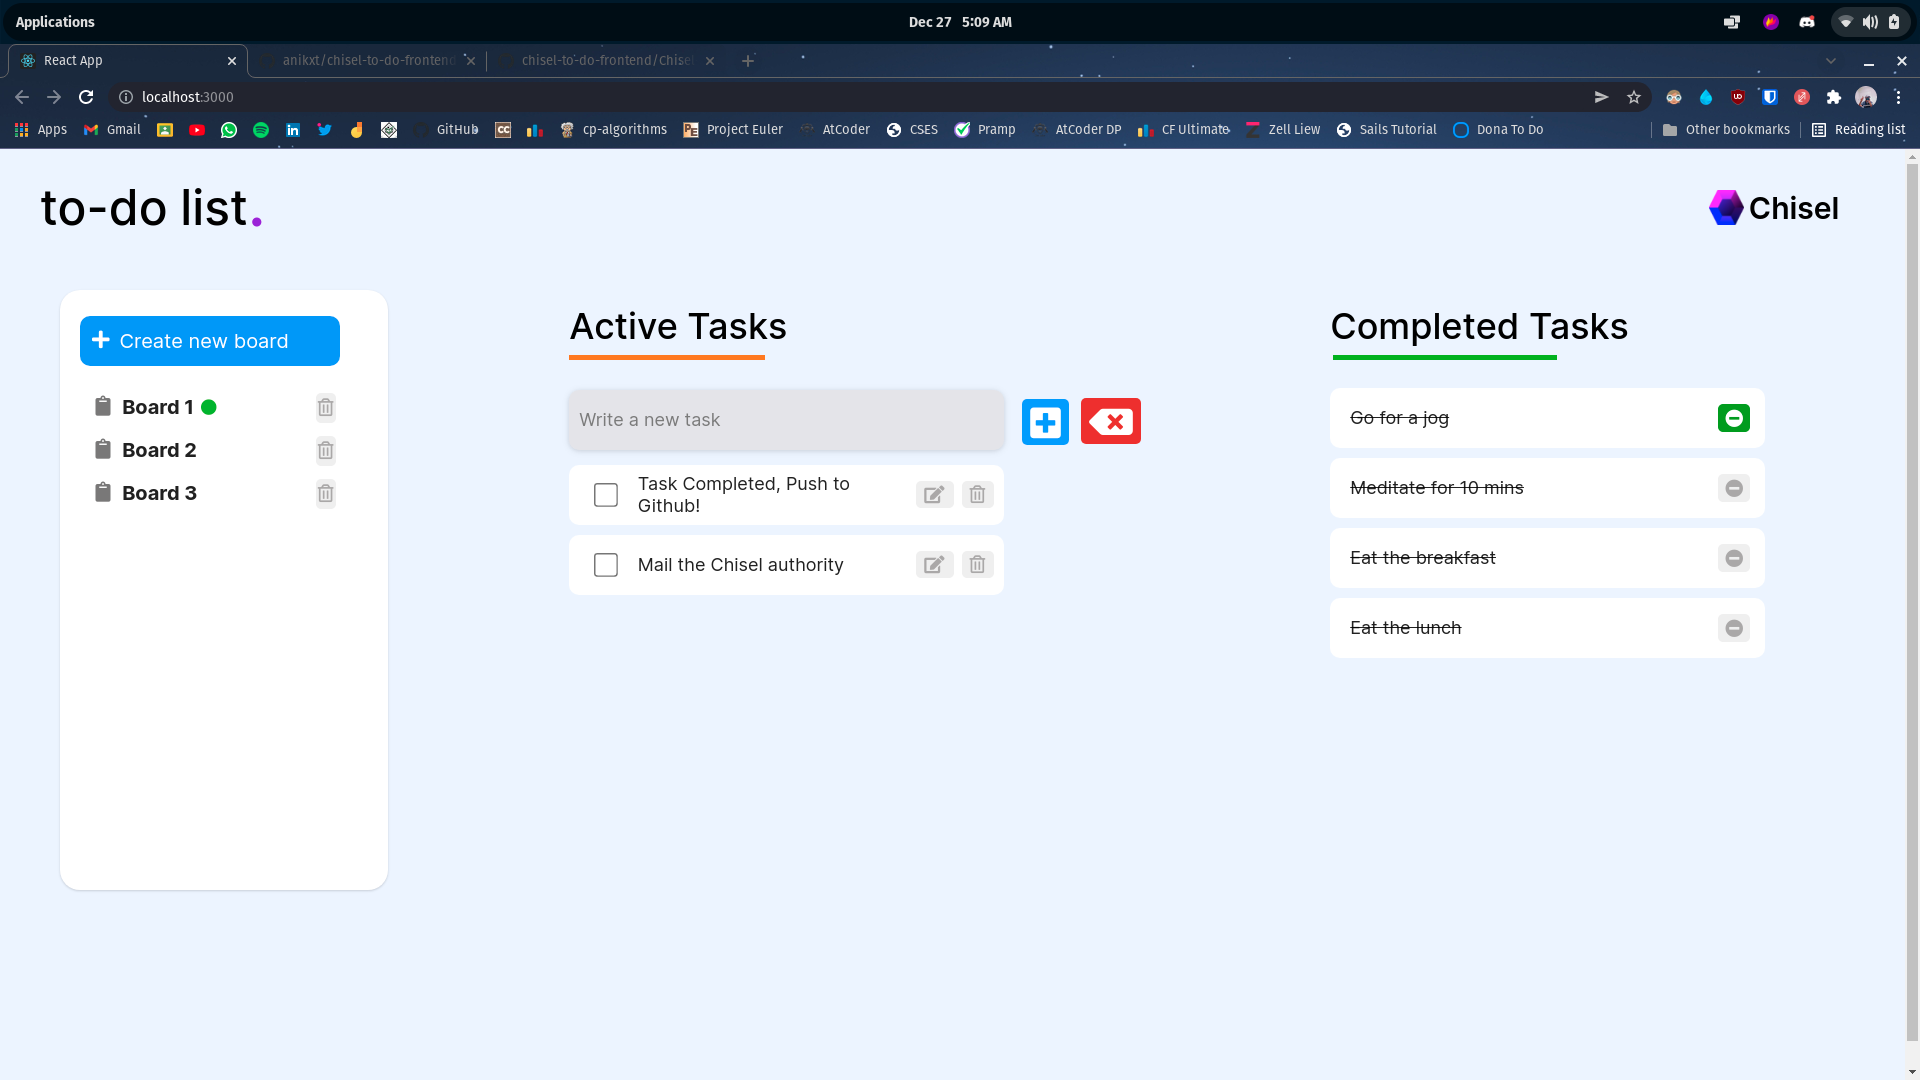
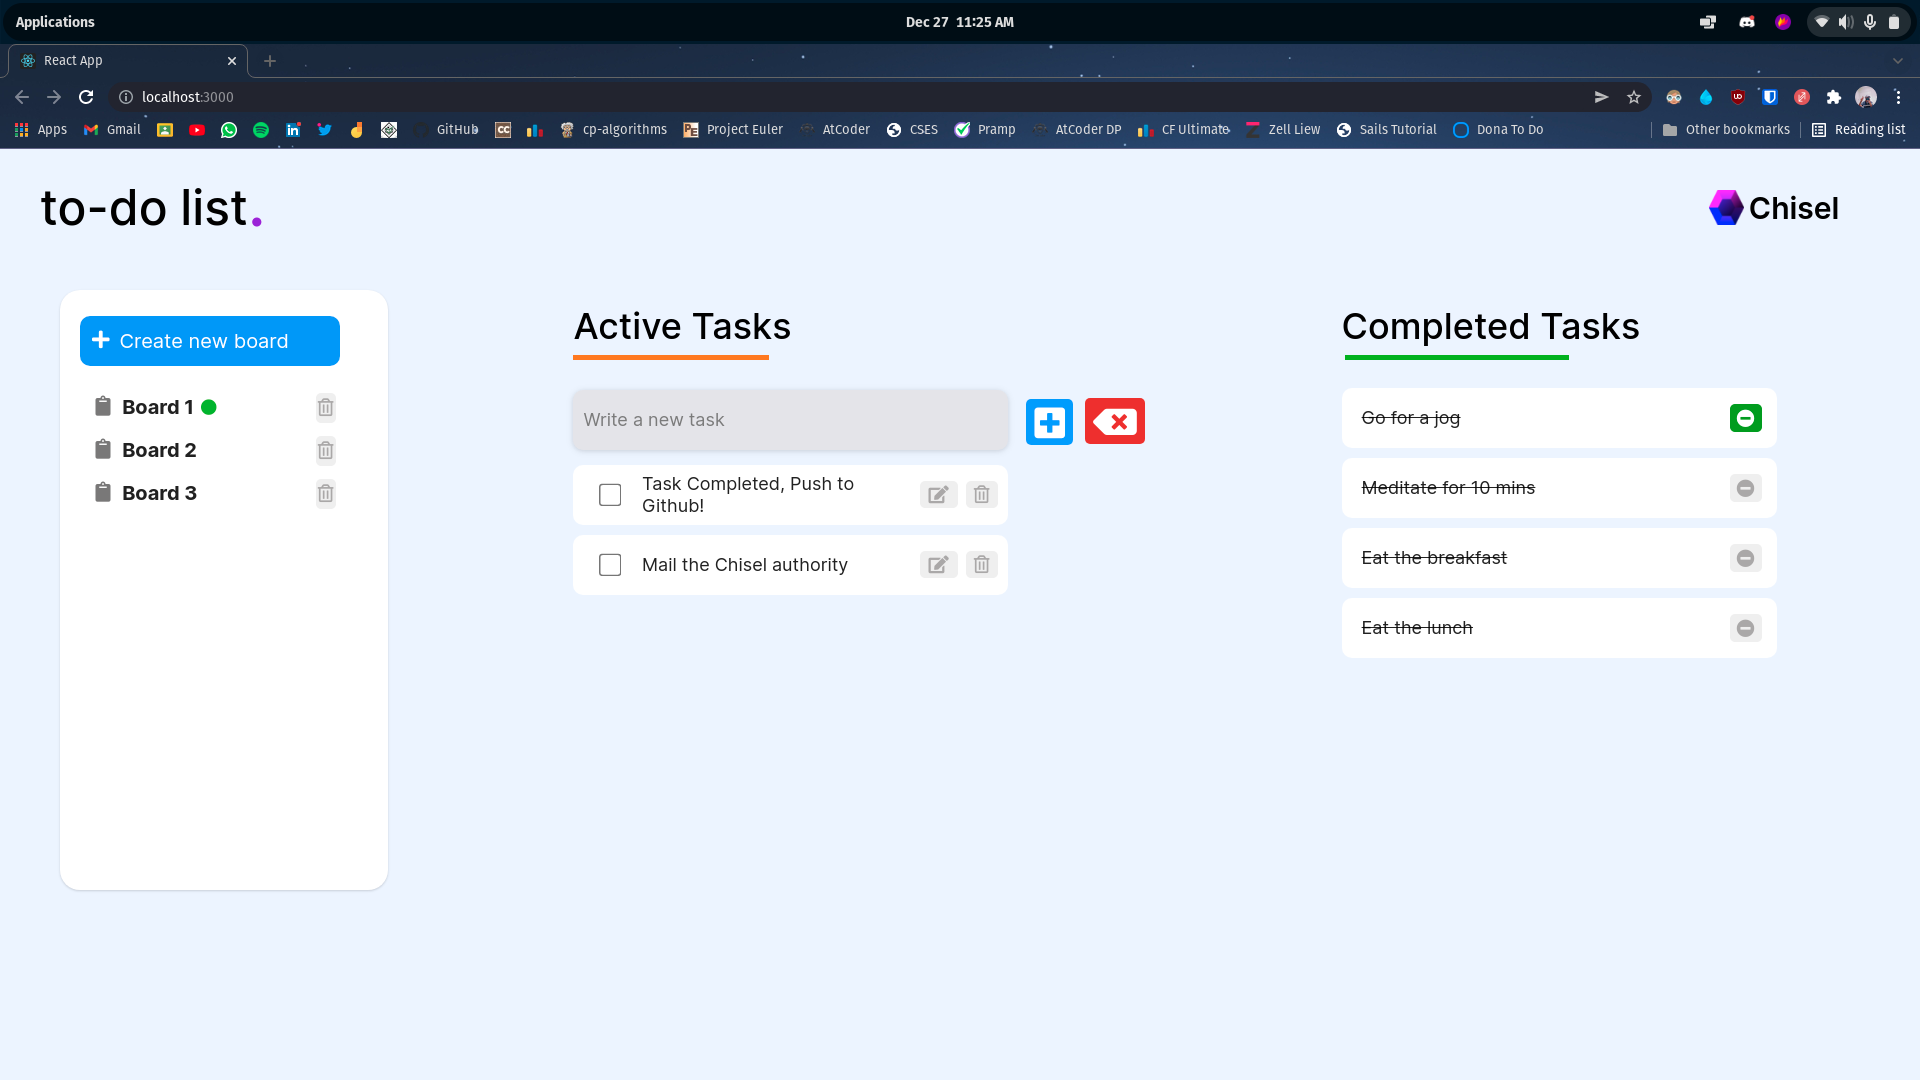
tweaks/changes

diff --git a/src/components/displayTodo.css b/src/components/displayTodo.css
@@ -7,13 +7,11 @@
 }
 
 .divButtonEdit {
-  /* background-color: #3498ff; */
   margin-left: auto;
   color: rgb(170, 168, 168);
 }
 
 .divButtonDelete {
-  /* background-color: #e53225; */
   margin-right: 10px;
   margin-left: 8px;
   color: rgb(170, 168, 168);
@@ -26,7 +24,6 @@
 }
 
 .divButtonEdit i {
-  /* font-size: 1.2em; */
   padding: 3px;
   padding-bottom: 4px;
   padding-left: 2px;
@@ -67,6 +64,9 @@
 .divEditTodo input {
   border: none;
   outline: none;
+  height: 40px;
+  border-radius: 5px;
+  padding-left: 12px;
 }
 
 .divEditTodo textarea:hover,

diff --git a/src/components/DisplayTodo.js b/src/components/DisplayTodo.js
@@ -31,7 +31,7 @@ const DisplayTodo = ({
   return (
     <div className="divActiveTask">
       <input
-        class="ui checkbox"
+        className="ui checkbox"
         type="checkbox"
         checked={todo.isComplete}
         onChange={() => handleToggleTodo(todo.id)}

diff --git a/src/App.css b/src/App.css
@@ -2,7 +2,7 @@ body {
   margin: 0;
   padding: 0;
   background-color: #edf4ff;
-  box-sizing: border-box;
+  max-height: 900px;
 }
 
 .todoHeader {
